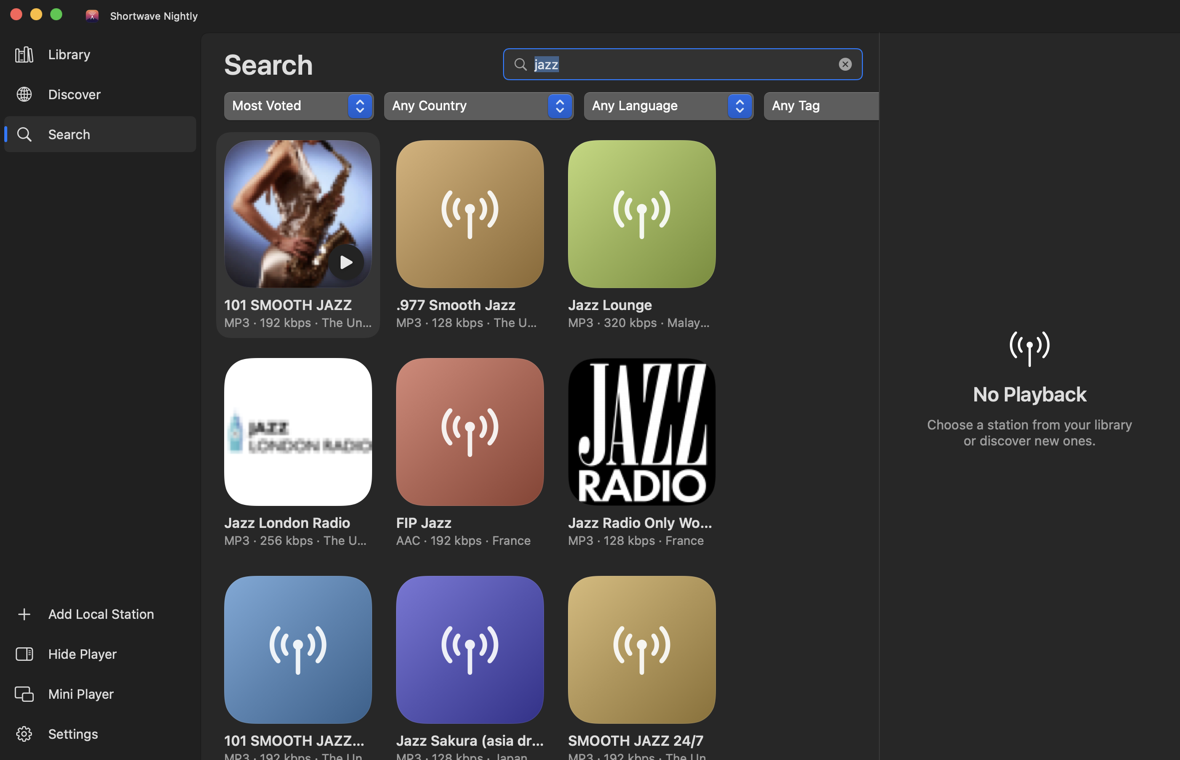
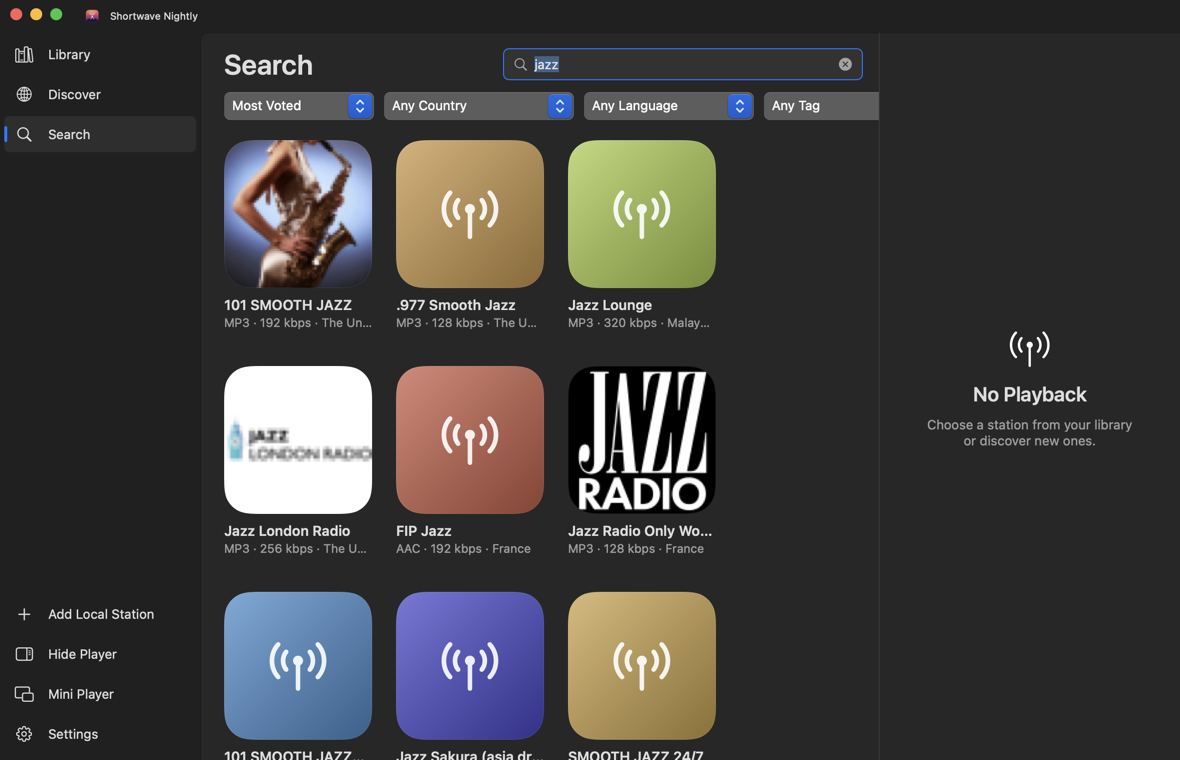
Mac design round 3: the Windows session's Round 2 items; reliable main window at launch
- Sort and More are neutral drop-down buttons with the chevron inside (DropDownMenu), like Country.
- AccentButtonStyle follows WinUI's rule for every accent button (Play in details, Discover New
  Stations, Add Station / Save, Save Track): the accent with white text in light mode, the light
  shade with black text in dark mode.
- Empty-state buttons are large; the empty-state glyph is TextFillColorTertiary.
  -screenshot renders draw SF Symbols untinted (white in dark mode), but they're coloured on screen;
  checked with a real screen capture and noted in Screenshot.swift.
- Cards are 214 tall, so rows are 226 apart as on Windows. Settings opens with nothing focused.
  Hover is off in -screenshot runs.
- The main window: SwiftUI's openWindow action now comes from the menu bar icon, which is built
  even when the app isn't active. Ensuring the window retries for up to 10 s. Three script launches
  in a row all opened it.
- Checked with real input: the Sort menu opens, choosing Votes saves it and reorders the grid.
  26 unit tests, exchange (incl. the Windows export) and 5/5 smoke tests pass.

diff --git a/Sources/Shortwave/Views/Fluent.swift b/Sources/Shortwave/Views/Fluent.swift
@@ -92,6 +92,7 @@ struct GroupTitle: View {
 
 /// A big icon, a title, a line of text and optional buttons, centred in a page.
 struct EmptyState<Actions: View>: View {
+    @Environment(\.colorScheme) private var scheme
     let symbol: String
     let title: String
     var text: String = ""
@@ -100,13 +101,13 @@ struct EmptyState<Actions: View>: View {
 
     var body: some View {
         VStack(spacing: 10) {
-            Image(systemName: symbol).font(.system(size: iconSize, weight: .light)).foregroundStyle(Fluent.tertiaryText)
+            Image(systemName: symbol).font(.system(size: iconSize, weight: .light)).foregroundStyle(scheme == .dark ? Color.white.opacity(0.53) : Color.black.opacity(0.447))
                 .padding(.bottom, 2)
             Text(title).font(Fluent.subtitleFont).multilineTextAlignment(.center)
             if !text.isEmpty {
                 Text(text).foregroundStyle(.secondary).multilineTextAlignment(.center)
             }
-            HStack(spacing: 8) { actions }.padding(.top, 6)
+            HStack(spacing: 8) { actions }.controlSize(.large).padding(.top, 6)
         }
         .frame(maxWidth: 420)
         .padding(24)
@@ -142,7 +143,7 @@ struct NavRow: View {
             .frame(height: 36)
             .contentShape(Rectangle())
             .background(RoundedRectangle(cornerRadius: 5, style: .continuous)
-                .fill(selected ? Fluent.subtle : hovering ? Fluent.subtleHover : .clear))
+                .fill(selected ? Fluent.subtle : hovering && !Diagnostics.rendering ? Fluent.subtleHover : .clear))
             .overlay(alignment: .leading) {
                 if selected {
                     Capsule().fill(.tint).frame(width: 3, height: 16)
@@ -154,5 +155,49 @@ struct NavRow: View {
         .help(help ?? title)
         .accessibilityLabel(title)
         .accessibilityAddTraits(selected ? .isSelected : [])
+    }
+}
+
+/// WinUI's accent button: the accent fill (its lighter shade in dark mode) with white text in light
+/// mode and black text in dark mode, 4 pt corners, 32 pt tall at the large size.
+struct AccentButtonStyle: ButtonStyle {
+    @Environment(\.isEnabled) private var enabled
+    @Environment(\.controlSize) private var size
+
+    func makeBody(configuration: Configuration) -> some View {
+        configuration.label
+            .lineLimit(1)
+            .fixedSize()
+            .fontWeight(.medium)
+            .foregroundStyle(enabled ? AnyShapeStyle(Fluent.onAccent) : AnyShapeStyle(.tertiary))
+            .padding(.horizontal, 12)
+            .frame(minHeight: size == .large ? 32 : 24)
+            .background(RoundedRectangle(cornerRadius: 4, style: .continuous)
+                .fill(enabled ? AnyShapeStyle(Fluent.accentFill) : AnyShapeStyle(.quaternary)))
+            .opacity(configuration.isPressed ? 0.8 : 1)
+            .contentShape(Rectangle())
+    }
+}
+
+extension ButtonStyle where Self == AccentButtonStyle {
+    static var accent: AccentButtonStyle { AccentButtonStyle() }
+}
+
+/// A neutral drop-down button (WinUI DropDownButton): an icon, an optional title and a chevron, no
+/// coloured arrow. macOS menus keep only one image from a label, so it's all one Text.
+struct DropDownMenu<Content: View>: View {
+    let symbol: String
+    var title: String = ""
+    @ViewBuilder var content: Content
+    var body: some View {
+        Menu {
+            content
+        } label: {
+            Text("\(Image(systemName: symbol))\(title.isEmpty ? "" : "  " + title)  \(Image(systemName: "chevron.down"))")
+        }
+        .menuStyle(.button)
+        .buttonStyle(.bordered)
+        .menuIndicator(.hidden)
+        .fixedSize()
     }
 }

diff --git a/Sources/Shortwave/Views/Pages.swift b/Sources/Shortwave/Views/Pages.swift
@@ -13,7 +13,7 @@ struct LibraryPage: View {
             if app.library.isEmpty {
                 EmptyState(symbol: "antenna.radiowaves.left.and.right", title: "Your Library Is Empty",
                            text: "Discover over 50,000 public stations and add the ones you like.", iconSize: 48) {
-                    Button("Discover New Stations") { app.page = .discover }.buttonStyle(.borderedProminent)
+                    Button("Discover New Stations") { app.page = .discover }.buttonStyle(.accent)
                     Button("Add Local Station") { app.showingAddStation = true }
                     Button("Import Stations…") { app.chooseImportFile() }
                 }
@@ -31,13 +31,10 @@ struct LibraryPage: View {
 struct LibraryMoreMenu: View {
     @Environment(AppModel.self) private var app
     var body: some View {
-        Menu {
+        DropDownMenu(symbol: "ellipsis") {
             Button("Import Stations…") { app.chooseImportFile() }
             Button("Export Stations…") { app.chooseExportFile() }.disabled(app.library.isEmpty)
-        } label: {
-            Image(systemName: "ellipsis")
         }
-        .fixedSize()
         .help("Import or export your saved stations")
         .accessibilityLabel("More")
     }
@@ -47,7 +44,7 @@ struct SortMenu: View {
     @Environment(AppModel.self) private var app
     var body: some View {
         @Bindable var settings = app.settings
-        Menu {
+        DropDownMenu(symbol: "arrow.up.arrow.down", title: settings.librarySorting.title) {
             Picker("Sort By", selection: $settings.librarySorting) {
                 ForEach(StationSorting.allCases) { Text($0.title).tag($0) }
             }
@@ -57,11 +54,7 @@ struct SortMenu: View {
                 Text("Descending").tag(false)
             }
             .pickerStyle(.inline)
-        } label: {
-            Label(settings.librarySorting.title, systemImage: "arrow.up.arrow.down")
-                .labelStyle(.titleAndIcon)
         }
-        .fixedSize()
         .help("Sort the library")
         .accessibilityLabel("Sort")
     }

diff --git a/Sources/Shortwave/Model/AppModel.swift b/Sources/Shortwave/Model/AppModel.swift
@@ -120,12 +120,7 @@ final class AppModel {
             Screenshot.scheduleIfAsked { [weak self] in self?.openWindowByID?("main") }
             // SwiftUI doesn't always present the main window at launch (seen with copies started
             // from a script); make sure it's there.
-            DispatchQueue.main.asyncAfter(deadline: .now() + 1) { [weak self] in
-                if !NSApp.windows.contains(where: { $0.isVisible && $0.identifier?.rawValue.contains("main") == true }) {
-                    Diagnostics.log("opening the main window")
-                    self?.openWindowByID?("main")
-                }
-            }
+            self.ensureMainWindow(attempt: 0)
             if Diagnostics.openMiniPlayer {
                 DispatchQueue.main.asyncAfter(deadline: .now() + 1.5) { [weak self] in self?.openWindowByID?("mini") }
             }
@@ -136,6 +131,25 @@ final class AppModel {
         }
         if let url = Diagnostics.playURL {
             player.select(Station.local(name: "Test Stream", streamURL: url))
+        }
+    }
+
+    /// Opens the main window if SwiftUI didn't. The open action exists only once the menu commands
+    /// have been built, so this checks every half second for up to 10 seconds.
+    private func ensureMainWindow(attempt: Int) {
+        guard attempt < 20 else { return }
+        DispatchQueue.main.asyncAfter(deadline: .now() + 0.5) { [weak self] in
+            guard let self else { return }
+            if NSApp.windows.contains(where: { $0.isVisible && $0.identifier?.rawValue.contains("main") == true }) { return }
+            if let open = self.openWindowByID {
+                Diagnostics.log("opening the main window")
+                open("main")
+            } else if attempt == 0 {
+                // The menu commands (and with them the open action) are built when the app becomes
+                // active, which a copy started from a script isn't.
+                NSApp.activate()
+            }
+            self.ensureMainWindow(attempt: attempt + 1)
         }
     }
 

diff --git a/Sources/Shortwave/Views/Sheets.swift b/Sources/Shortwave/Views/Sheets.swift
@@ -21,7 +21,7 @@ struct StationDetailSheet: View {
                         Button { app.play(station) } label: {
                             Label(isActive ? "Playing" : "Play", systemImage: "play.fill")
                         }
-                        .buttonStyle(.borderedProminent)
+                        .buttonStyle(.accent)
                         .disabled(isActive)
                         Button { app.toggleLibrary(station) } label: {
                             Label(inLibrary ? "Remove from Library" : "Add to Library",
@@ -171,6 +171,7 @@ struct LocalStationSheet: View {
                 Button("Cancel") { dismiss() }.keyboardShortcut(.cancelAction)
                 Button(editing == nil ? "Add Station" : "Save") { commit() }
                     .keyboardShortcut(.defaultAction)
+                    .buttonStyle(.accent)
                     .disabled(!isValid)
             }
             .padding(16)
@@ -272,7 +273,7 @@ struct TrackDetailSheet: View {
                     Button("Play Track") { NSWorkspace.shared.open(saved) }
                 }
                 if track.canSave {
-                    Button("Save Track") { Task { await app.player.save(track) } }.buttonStyle(.borderedProminent)
+                    Button("Save Track") { Task { await app.player.save(track) } }.buttonStyle(.accent)
                 }
                 Button("Close") { dismiss() }.keyboardShortcut(.cancelAction)
             }

diff --git a/Sources/Shortwave/Views/StationViews.swift b/Sources/Shortwave/Views/StationViews.swift
@@ -52,7 +52,7 @@ struct StationCard: View {
         VStack(alignment: .leading, spacing: 8) {
             ZStack(alignment: .bottomTrailing) {
                 StationCover(station: station, size: 148)
-                if hovering || isActive {
+                if (hovering && !Diagnostics.rendering) || isActive {
                     Button {
                         if isActive { app.player.stopPlayback() } else { app.play(station) }
                     } label: {
@@ -80,7 +80,8 @@ struct StationCard: View {
             .frame(width: 148, alignment: .leading)
         }
         .padding(8)
-        .background(RoundedRectangle(cornerRadius: 14, style: .continuous).fill(hovering ? Fluent.subtle : .clear))
+        .frame(height: 214, alignment: .top)   // WinUI's MinItemHeight: rows 226 apart
+        .background(RoundedRectangle(cornerRadius: 14, style: .continuous).fill(hovering && !Diagnostics.rendering ? Fluent.subtle : .clear))
         .contentShape(Rectangle())
         .onHover { hovering = $0 }
         .onTapGesture(count: 2) { app.play(station) }

diff --git a/Sources/Shortwave/ShortwaveApp.swift b/Sources/Shortwave/ShortwaveApp.swift
@@ -34,7 +34,7 @@ struct ShortwaveApp: App {
         MenuBarExtra {
             MenuBarContent().environment(app)
         } label: {
-            Image(systemName: app.player.isPlaying ? "dot.radiowaves.left.and.right" : "radio")
+            MenuBarLabel(app: app)
         }
     }
 }
@@ -112,5 +112,20 @@ struct ShortwaveCommands: Commands {
                 .keyboardShortcut("m", modifiers: [.command, .shift])
             Divider()
         }
+    }
+}
+
+/// The menu bar icon. It's drawn at launch even when the app isn't active (unlike the menu
+/// commands), so it also hands the model SwiftUI's openWindow action.
+struct MenuBarLabel: View {
+    let app: AppModel
+    @Environment(\.openWindow) private var openWindow
+
+    var body: some View {
+        Image(systemName: app.player.isPlaying ? "dot.radiowaves.left.and.right" : "radio")
+            .task {
+                let open = openWindow
+                app.openWindowByID = { open(id: $0) }
+            }
     }
 }

diff --git a/Sources/Shortwave/Model/Diagnostics.swift b/Sources/Shortwave/Model/Diagnostics.swift
@@ -43,6 +43,8 @@ enum Diagnostics {
     }
     static var openMiniPlayer: Bool { CommandLine.arguments.contains("-miniPlayer") }
     static var openAddStation: Bool { CommandLine.arguments.contains("-addStation") }
+    /// A `-screenshot` run: hover effects are left out so the pointer's position doesn't show.
+    static let rendering = UserDefaults.standard.string(forKey: "screenshot") != nil
     static var openFirstResult: Bool { CommandLine.arguments.contains("-openFirstResult") }
     static var openTrackDetail: Bool { CommandLine.arguments.contains("-openTrackDetail") }
     /// Test runs are always muted and keep off Now Playing / media keys (pass -audible for a sound test).

diff --git a/Sources/Shortwave/Model/Screenshot.swift b/Sources/Shortwave/Model/Screenshot.swift
@@ -3,6 +3,8 @@ import AppKit
 /// `-screenshot <png>` (test runs): after `-screenshotDelay` seconds (default 4), draws the main
 /// window, with any open sheet laid over it, into a PNG and quits. It draws the app's own views,
 /// so it works with the display asleep, like the Windows app's flag of the same name.
+/// Known limit: SF Symbols draw untinted (white in dark mode) in these renders; on screen they
+/// take their colour. Check symbol colours with a real screen capture.
 /// `-appearance light|dark` picks the look for the run (it overrides the App Theme setting).
 @MainActor
 enum Screenshot {

diff --git a/Sources/Shortwave/Views/MainViews.swift b/Sources/Shortwave/Views/MainViews.swift
@@ -226,6 +226,8 @@ struct SettingsPage: View {
             }
         }
         .onChange(of: settings.recorderConfig) { app.player.settingsChanged() }
+        // Don't open with the first number field focused (and its text selected).
+        .onAppear { DispatchQueue.main.async { NSApp.keyWindow?.makeFirstResponder(nil) } }
     }
 }
 
